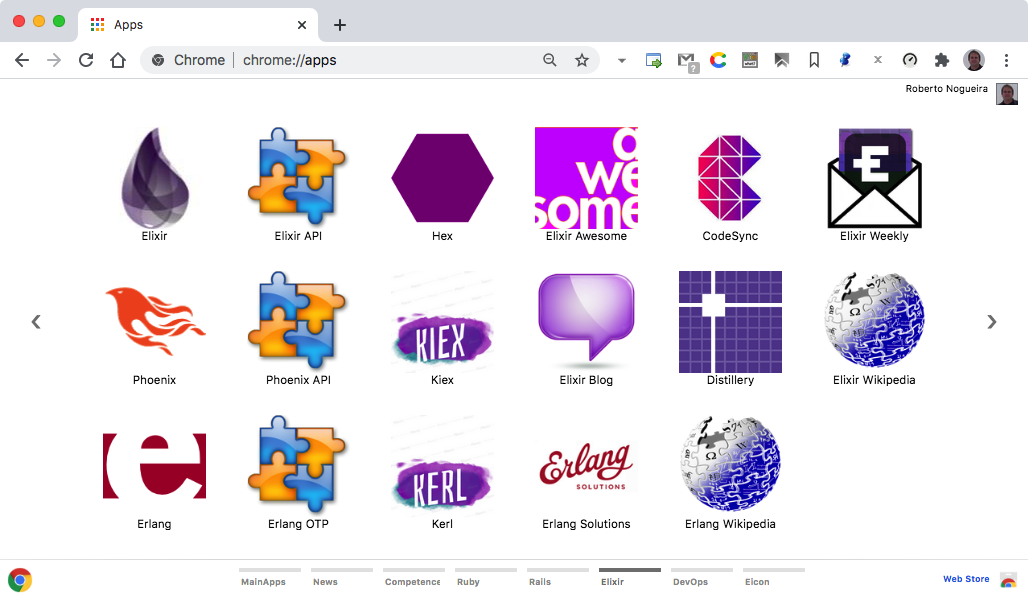
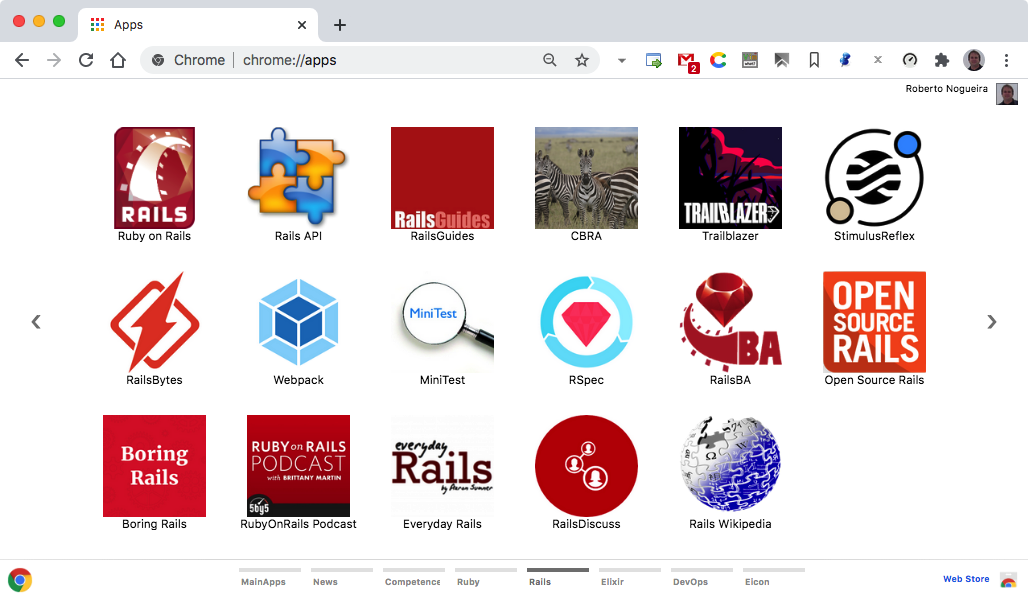
correct-mistake

diff --git a/README.md b/README.md
@@ -1,4 +1,4 @@
-# Chrome Apps for Elixir
+# Chrome Apps for Rails
 
 ![Chrome Apps logo](images/chrome_apps.png)
 
@@ -8,56 +8,30 @@
 Open a terminal give the following command:
 
 ```bash
-$ git clone https://github.com/enogrob/chromeapps-elixir.git
+$ git clone https://github.com/enogrob/chromeapps-rails.git
 ```
 
-As we can see a subdirectory is created for each Elixir app.
+As we can see a subdirectory is created for each Rails app.
 
 ```bash
 $ ls -la
-total 984
-drwxr-xr-x@  10 enogrob  staff    340 Oct  3 16:42 .
-drwxr-xr-x@ 298 enogrob  staff  10132 Oct  4 02:29 ..
--rw-r--r--@   1 enogrob  staff   6148 Oct  3 16:58 .DS_Store
-drwxr-xr-x   14 enogrob  staff    476 Oct  3 16:54 .git
--rw-r--r--    1 enogrob  staff      5 May 31  2016 .gitignore
-drwxr-xr-x   10 enogrob  staff    340 Nov 17  2016 .idea
--rw-r--r--@   1 enogrob  staff      0 Nov 17  2016 Icon?
--rw-r--r--@   1 enogrob  staff   1892 Oct  4 02:33 README.md
-drwxr-xr-x   19 enogrob  staff    646 Oct  4 02:31 apps
-drwxr-xr-x    4 enogrob  staff    136 Oct  4 02:32 images
+
 
 $ tree -L 1 apps/
 apps
-├── Elixir-Awesome
-├── Elixir-Blog
-├── Elixir-CodeSync
-├── Elixir-Distillery
-├── Elixir-ElixirAPI
-├── Elixir-ElixirWeely
-├── Elixir-ElixirWikipedia
-├── Elixir-Erlang
-├── Elixir-ErlangOTP
-├── Elixir-ErlangSolutions
-├── Elixir-ErlangWikipedia
-├── Elixir-Hex
-├── Elixir-Homepage
-├── Elixir-Kerl
-├── Elixir-Kiex
-├── Elixir-Phoenix
-└── Elixir-PhoenixAPI
+
 
 17 directories, 0 files
 $
 ```
 
 ### 2. Open Chrome with the following url:
-In order to load the `Chrome Apps` for Eicon, check `Developer Mode` and press `Load unpacked extension...` to load each App selecting its corresponding directory inside `apps` e.g. `Elixir-Homepage`, and then repeat that for the wanted apps.
+In order to load the `Chrome Apps` for Rails, check `Developer Mode` and press `Load unpacked extension...` to load each App selecting its corresponding directory inside `apps` e.g. `Rails-Homepage`, and then repeat that for the wanted apps.
 
 ```
 chrome://extensions/
 ```
 
-### 3. After load the Chrome Apps wanted for Elixir, Chrome will look like the screenshot below:
+### 3. After load the Chrome Apps wanted for Rails, Chrome will look like the screenshot below:
 
 ![Chrome screenshot](images/chrome_screenshot1.png)
